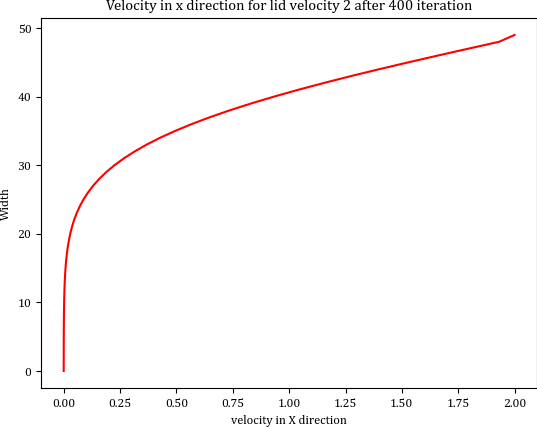
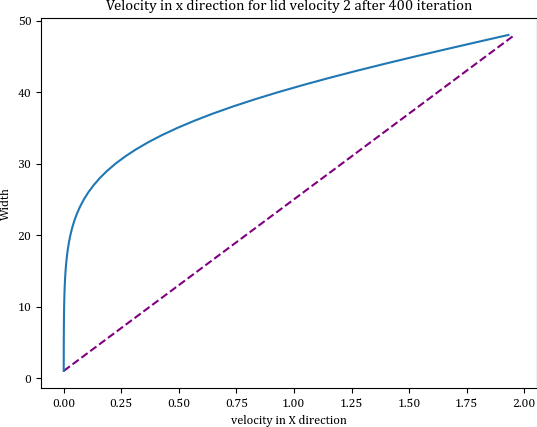
Lower_running

diff --git a/test.py b/test.py
@@ -37,7 +37,7 @@ def couette_flow_simulation(Nx: int, Ny: int, omega: float, output_dir: str, sav
     
     def analytical_couette(y):
         """Define Analytical function for couette flow"""
-        x_vel = lid_vel * (y-1)/(Ny-2)        
+        x_vel = lid_vel * y/(Ny-1)        
         return x_vel
 
 
@@ -63,9 +63,9 @@ def couette_flow_simulation(Nx: int, Ny: int, omega: float, output_dir: str, sav
     # initilization of the grids used    
     f = np.ones((Ny,Nx,9))
     velocity = np.zeros((Ny,Nx,2))
-    analytical_vel = analytical_couette(np.arange(1,Ny-1))
+    analytical_vel = analytical_couette(np.arange(Ny))
     
-    axes[1].plot(analytical_vel,np.arange(1,Ny-1), color = 'purple', linestyle='dashed')
+    axes[1].plot(analytical_vel,np.arange(Ny), color = 'purple', linestyle='dashed')
         
     # Iteration starts from here
     for step in range(steps):
@@ -86,24 +86,19 @@ def couette_flow_simulation(Nx: int, Ny: int, omega: float, output_dir: str, sav
             x_1 = velocity[-3,Nx//2,1]
             y_0 = Ny - 2
             y_1 = Ny - 3
-            y_ex = Ny - 1.5
+            y_ex = Ny -1.5
             x_ex = (y_ex - (y_0-((y_1-y_0)/(x_1-x_0))*x_0))/((y_1-y_0)/(x_1-x_0))
-            low_y = 0.5
-            low_x1 = velocity[2,Nx//2,1]
-            low_x = low_y * low_x1
             plt_velocity = velocity
             # plt_velocity[0,Nx//2,1] = plt_velocity[1,Nx//2,1]
-            # plt_velocity[-1,Nx//2,1] = x_ex        
+            plt_velocity[-1,Nx//2,1] = x_ex        
             
             axes[0].cla()
             axes[0].set_ylabel("Width")
             axes[0].set_xlabel("velocity in X direction")
             
-            x_val = plt_velocity[1:-1,Nx//2,1]
-            # x_val = np.concatenate((np.array([0]),np.array([low_x]), plt_velocity[2:-1,Nx//2,1],np.array([x_ex])))
-            y_val = np.arange(1,Ny-1)
-            # y_val = np.concatenate((np.array([0]),np.array([low_y]), np.arange(2,Ny-1),np.array([y_ex])))
-            axes[0].plot(analytical_vel,np.arange(1,Ny-1), color = 'purple', linestyle='dashed')
+            x_val = np.concatenate((np.array([0]), plt_velocity[1:-1,Nx//2,1],np.array([x_ex])))
+            y_val = np.concatenate((np.array([0]), np.arange(1,Ny-1),np.array([y_ex])))
+            axes[0].plot(analytical_vel,np.arange(Ny), color = 'purple', linestyle='dashed')
             axes[0].plot(x_val, y_val)            
             # axes[0].plot(velocity[1:-1,Nx//2,1], np.arange(1,Ny-1), color = 'r')
             save_path = os.path.join(common_path, f'velocity_at{step}.png')

diff --git a/init.py b/init.py
@@ -24,7 +24,7 @@ def experiment_type(type):
     elif (type==CV.couette_flow):        
         Nx = 50
         Ny = 50
-        steps = 4000
+        steps = 2000
         omega = 1
         output_dir = 'results'
         save_every = 200
@@ -55,5 +55,6 @@ def experiment_type(type):
 
 """Define the experiemnt  category"""
 if __name__ == "__main__":
+    
     # 'shear_wave', 'couette_flow', 'poiseuille_flow', 'sliding_lid'
-    experiment_type("sliding_lid")
+    experiment_type("couette_flow")

diff --git a/lbm_common/boundary.py b/lbm_common/boundary.py
@@ -7,6 +7,7 @@ def couette_bounce_back(f,lid_vel,velocity):
     """Bounce back and lid velocity exerted here"""
     rho_wall = (2 * (f[-1, :, 6] + f[-1, :, 2] + f[-1, :, 5]) + f[-1, :, 3] + f[-1, :, 0] + f[-1, :, 1])/(1+velocity[-1,:,1])
     velocity[-1,:,1] = lid_vel
+    # velocity[0,:,1] = 0
     # for bottom y = 0
     f[1, :, 2] = f[0, :, 4]
     f[1, :, 5] = f[0, :, 7]
